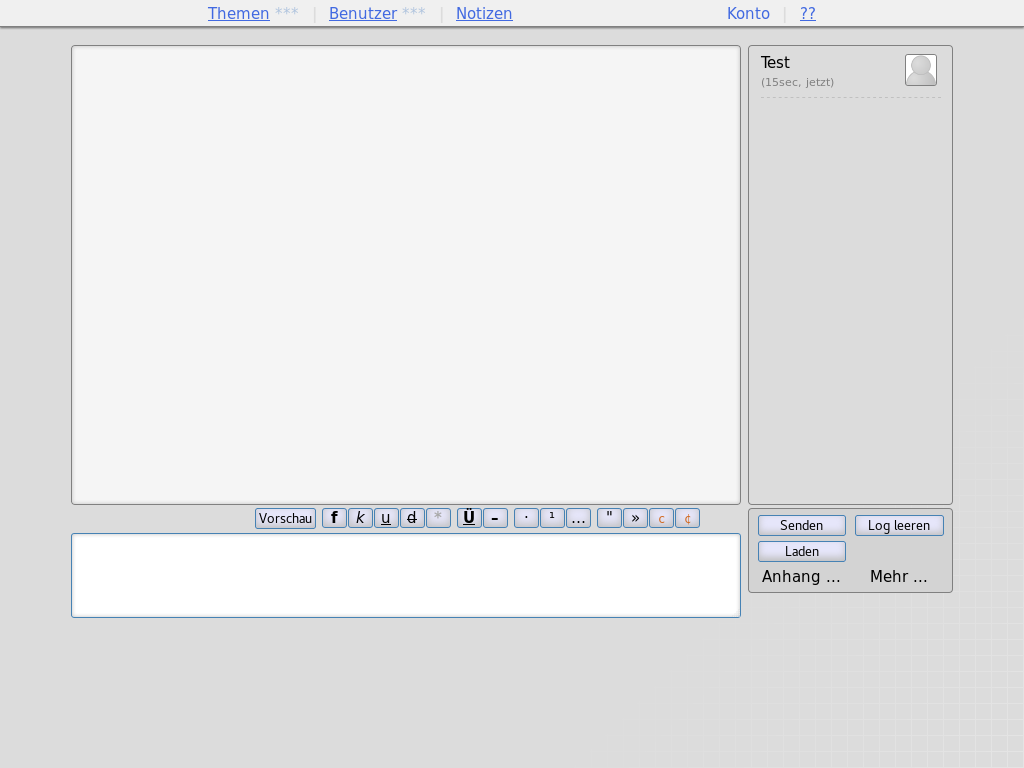
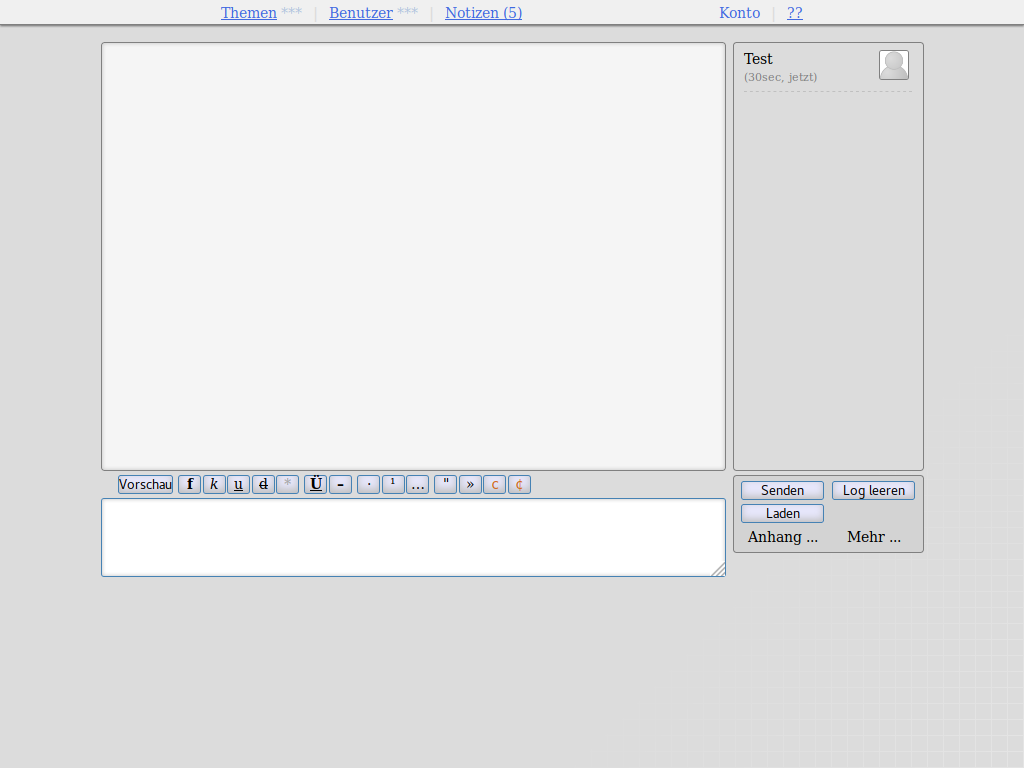
Chat Edit-Buttons bissel verschoben

Changed region(s): [[0.0, 0.0, 1.0, 0.8125]]

diff --git a/public/theme/chat.css b/public/theme/chat.css
@@ -115,8 +115,7 @@ table > tr > td > div, table textarea {
     color: gainsboro;
 }
 .editbuttons {
-    text-align: right;
-    margin-right: 3em;
+    margin-left: 1.5em;
 }
 #textpreviewarea {
     height: 8em;
